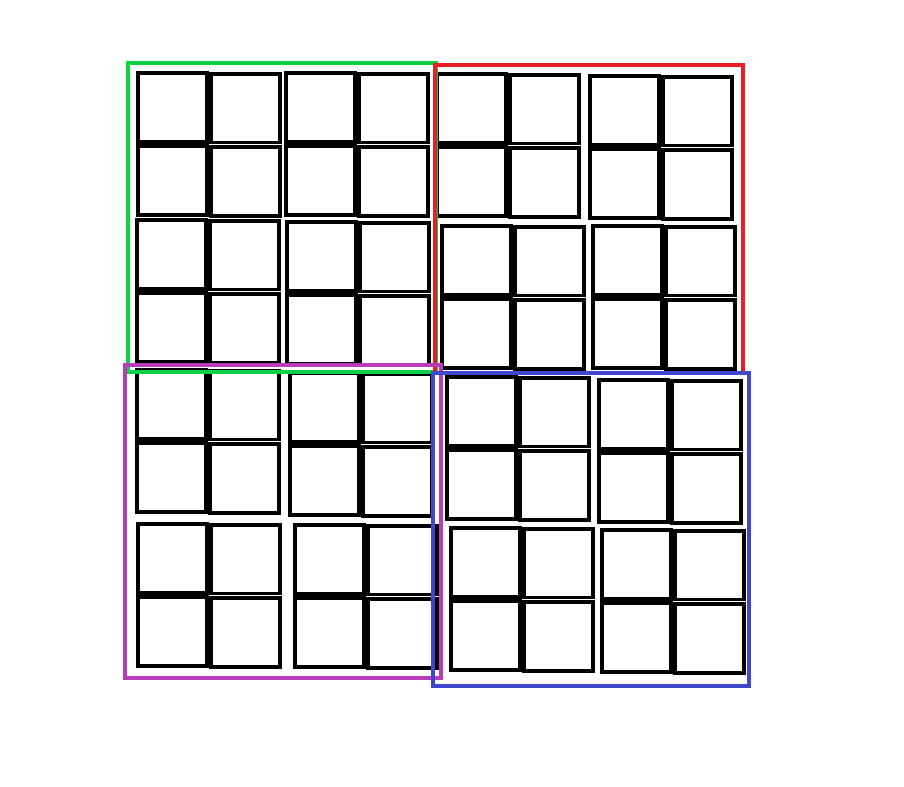
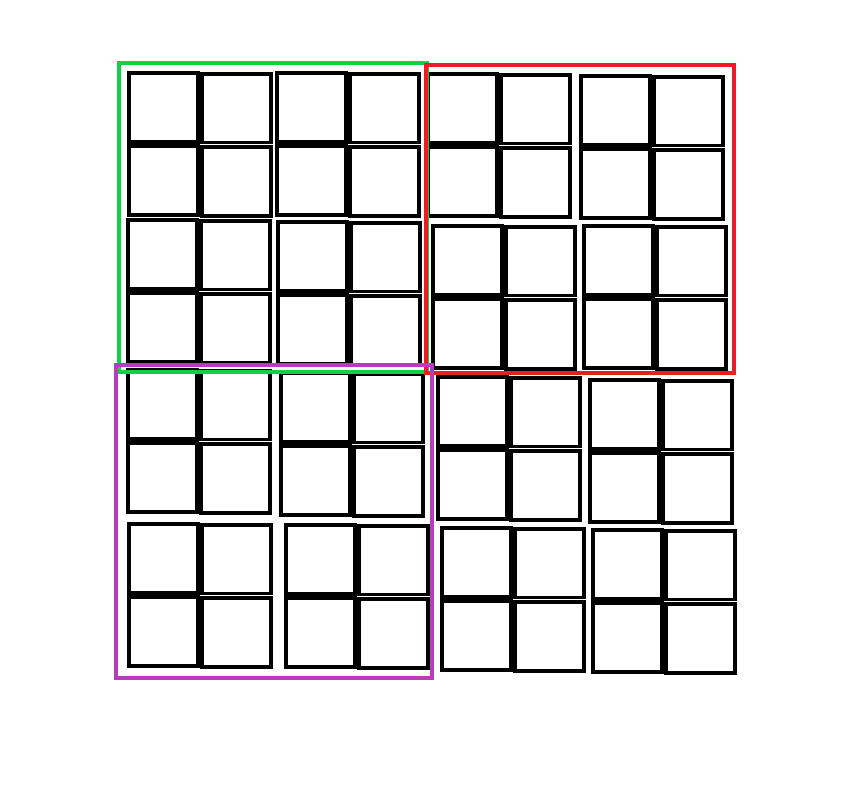
Added Graph Image

diff --git a/README.md b/README.md
@@ -43,13 +43,13 @@ and is shown in the command line.
 
 * Divide the the adjacency matrix into squares of equal sizes and assign one section to each single process.
 
-![alt text](https://github.com/dheerajrox/Parallel_Computing_cs17b028/blob/main/images/process_node.png?raw=true)
+![Images/process_node.png](https://github.com/dheerajrox/Parallel_Computing_cs17b028/blob/main/images/process_node.png?raw=true)
 
 In this figure, we can see that an adjacency matrix of size 8x8 is divided into sub matrices of 4x4 to accomodate 4 processes.
 
 
 * Create a secondary sub matrix of the size of the mini matrices to store part of the result in each process.
-* take a note of the process containing the required element. ie. AdjacencyMatrix[S,D]
+* Make a note of the process containing the required element. ie. AdjacencyMatrix[S,D]
 * Check if the element is already non-zero. In that case return 1.
 
 ### Message passing
@@ -106,29 +106,26 @@ Using the adjacency matrix:
 ```
 
 
+![Graph](https://github.com/dheerajrox/Parallel_Computing_cs17b028/blob/main/images/graph.png?raw=true)
+
 The results should be: 
 (Copy this adjacency matrix into matrix.txt file before running the following commands)
 
 ```sh
 mpiexec -np 1 ./shortest_path 1 3 4
 ```
-===============================================================
-Shortest path between source: 1 and destination: 3 is 1
-===============================================================
+==> Shortest path between source: 1 and destination: 3 is 1
 
 ```sh
 mpiexec -np 1 ./shortest_path 1 2 4
 ```
-===============================================================
-Shortest path between source: 1 and destination: 2 is 1
-===============================================================
+==> Shortest path between source: 1 and destination: 2 is 1
+
 
 ```sh
 mpiexec -np 1 ./shortest_path 0 3 4
 ```
-===============================================================
-Shortest path between Source: 0 and Destination: 3 is 2
-===============================================================
+==> Shortest path between Source: 0 and Destination: 3 is 2
 
 ## Issues
 
